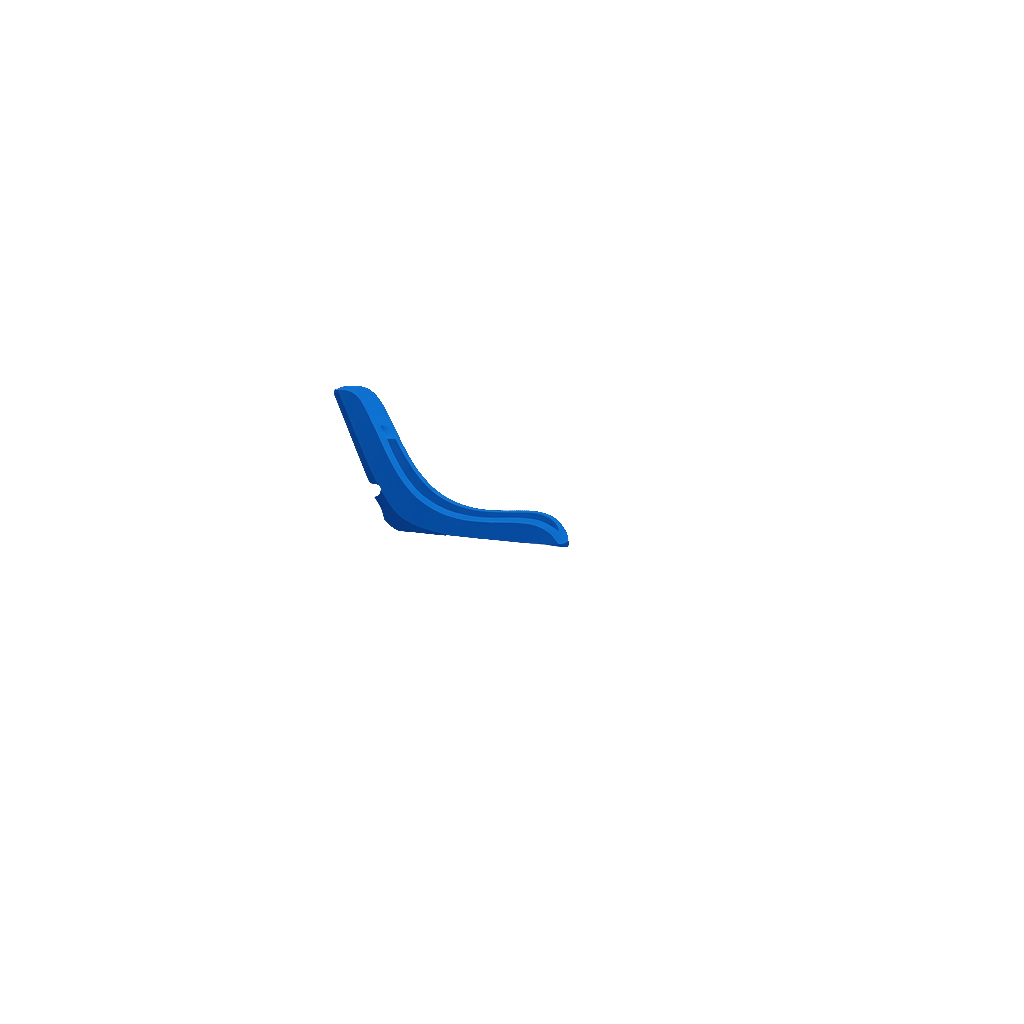
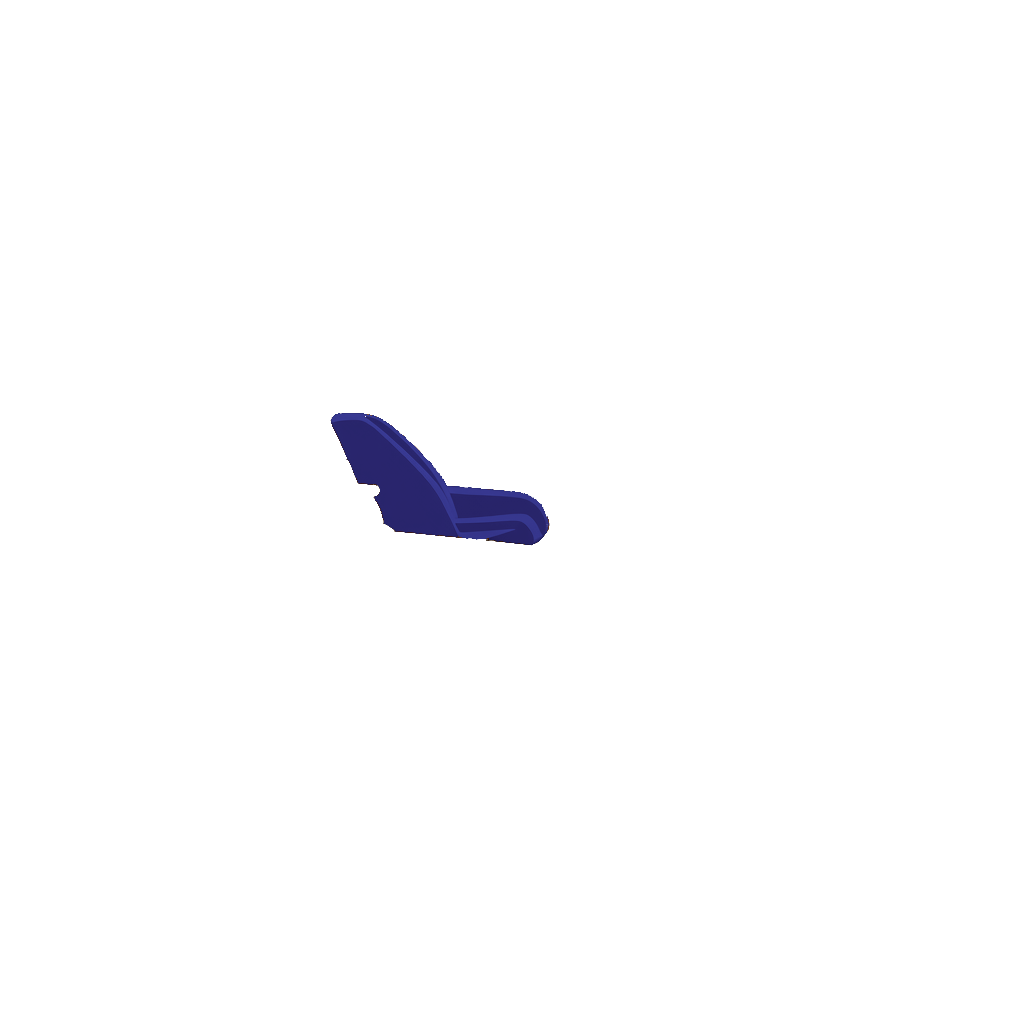
baazz

Changed region(s): [[0.3125, 0.375, 0.5625, 0.5312]]

diff --git a/src/pages/builder.vue b/src/pages/builder.vue
@@ -78,34 +78,35 @@
           <div class="kart-preview-wrapper">
             <div class="kart-display-area">
               <img
-                :src="baseImageUrl"
-                alt="Kart base"
+                :src="previewBaseImage.src"
+                :alt="previewBaseImage.alt"
                 class="kart-image"
               />
-              
-              <!-- Overlay container for parts -->
+
               <div class="kart-overlays-container">
                 <img
-                  v-if="selectedParts.wheel"
-                  :src="getOverlayImage('wheel')"
-                  alt="Wheels"
-                  class="kart-overlay"
-                />
-                
-                <img
-                  v-if="selectedParts.seat"
-                  :src="getOverlayImage('seat')"
-                  alt="Seat"
-                  class="kart-overlay"
-                />
-                
-                <img
-                  v-if="selectedParts.frame"
-                  :src="getOverlayImage('frame')"
-                  alt="Frame"
+                  v-for="layer in previewLayers"
+                  :key="layer.key"
+                  :src="layer.src"
+                  :alt="layer.alt"
                   class="kart-overlay"
                 />
               </div>
+            </div>
+
+            <div class="preview-selection-summary">
+              <v-chip size="small" variant="outlined">
+                Frame: {{ selectedFrameName }}
+              </v-chip>
+              <v-chip size="small" variant="outlined">
+                Wheels: {{ selectedWheelName }}
+              </v-chip>
+              <v-chip size="small" variant="outlined">
+                Seat: {{ selectedSeatName }}
+              </v-chip>
+              <v-chip size="small" variant="tonal">
+                Body: {{ selectedColor || 'White' }}
+              </v-chip>
             </div>
 
             <div class="mood-selector">
@@ -314,10 +315,12 @@
   position: relative;
   width: 100%;
   height: 450px;
-  background: transparent;
+  background:
+    radial-gradient(circle at top, rgba(255, 255, 255, 0.96), rgba(245, 245, 245, 0.92)),
+    linear-gradient(135deg, rgba(255, 196, 0, 0.12), rgba(0, 0, 0, 0.04));
   border-radius: 12px;
   overflow: hidden;
-  border: none;
+  border: 1px solid rgba(0, 0, 0, 0.06);
   transition: all 0.3s ease;
   margin-bottom: 1.5rem;
 }
@@ -361,6 +364,14 @@
   gap: 0.5rem;
   flex-wrap: wrap;
   margin-bottom: 1.5rem;
+}
+
+.preview-selection-summary {
+  display: flex;
+  gap: 0.5rem;
+  flex-wrap: wrap;
+  justify-content: center;
+  margin-bottom: 1rem;
 }
 </style>
 
@@ -407,7 +418,7 @@ const buildPresets = [
 ]
 
 const selectedColor = ref(null)
-const colorOptions = ['Yellow', 'Black', 'White']
+const colorOptions = ['Yellow', 'Black', 'Red', 'White']
 
 const selectedParts = reactive(
   Object.fromEntries(PART_TYPES.map(t => [t, null]))
@@ -416,34 +427,95 @@ const selectedParts = reactive(
 const initialSnapshot = ref('')
 const currentUserEmail = computed(() => store.currentUser?.email || null)
 
-const baseImageUrl = new URL('@/assets/editor/cross kart.png', import.meta.url).href
-
-function getOverlayImage(partType) {
-  // Dynamically get overlay based on selected part
-  const selectedPartId = selectedParts[partType]
-  if (!selectedPartId) return ''
-  
-  const overlayMap = {
-    // Wheel overlays
-    'p-003': new URL('@/assets/editor/yellow wheels.png', import.meta.url).href,
-    'p-004': new URL('@/assets/editor/yellow wheels.png', import.meta.url).href,
-    // Seat overlays
+const EDITOR_ASSETS = {
+  baseDefault: {
+    src: new URL('@/assets/editor/cross kart.png', import.meta.url).href,
+    alt: 'Kart preview',
+  },
+  baseAlt: {
+    src: new URL('@/assets/editor/42d02525-d6a6-4637-993d-68cd67d0cf19.png', import.meta.url).href,
+    alt: 'Alternative kart preview',
+  },
+  frameBases: {
+    'p-007': {
+      src: new URL('@/assets/editor/tony kart frame.png', import.meta.url).href,
+      alt: 'Tony Kart frame preview',
+    },
+    'p-008': {
+      src: new URL('@/assets/editor/42d02525-d6a6-4637-993d-68cd67d0cf19.png', import.meta.url).href,
+      alt: 'CRG frame preview',
+    },
+    'p-025': {
+      src: new URL('@/assets/editor/42d02525-d6a6-4637-993d-68cd67d0cf19.png', import.meta.url).href,
+      alt: 'Sodi frame preview',
+    },
+  },
+  body: {
+    Yellow: new URL('@/assets/editor/yellow body.png', import.meta.url).href,
+    Black: new URL('@/assets/editor/black body.png', import.meta.url).href,
+    Red: new URL('@/assets/editor/red body.png', import.meta.url).href,
+  },
+  wheels: {
+    'p-003': new URL('@/assets/editor/yellow wheel.png', import.meta.url).href,
+    'p-004': new URL('@/assets/editor/vega.png', import.meta.url).href,
+    'p-026': new URL('@/assets/editor/douglas.png', import.meta.url).href,
+    'p-027': new URL('@/assets/editor/lecont wheels.png', import.meta.url).href,
+    'p-028': new URL('@/assets/editor/maxxis wheels.png', import.meta.url).href,
+  },
+  seats: {
     'p-009': new URL('@/assets/editor/blue seat.png', import.meta.url).href,
-    'p-010': new URL('@/assets/editor/blue seat.png', import.meta.url).href,
-    'p-019': new URL('@/assets/editor/blue seat.png', import.meta.url).href,
-    'p-020': new URL('@/assets/editor/blue seat.png', import.meta.url).href,
-    'p-021': new URL('@/assets/editor/blue seat.png', import.meta.url).href,
-    // Frame overlays
-    'p-007': new URL('@/assets/editor/frame.png', import.meta.url).href,
-    'p-008': new URL('@/assets/editor/frame.png', import.meta.url).href,
-  }
-  return overlayMap[selectedPartId] || ''
+    'p-010': new URL('@/assets/editor/omp seat.png', import.meta.url).href,
+    'p-019': new URL('@/assets/editor/alvey seat.png', import.meta.url).href,
+    'p-020': new URL('@/assets/editor/jecko seat.png', import.meta.url).href,
+    'p-021': new URL('@/assets/editor/nek seat.png', import.meta.url).href,
+  },
 }
+
+const partsById = computed(() =>
+  Object.fromEntries(getAllParts().map(part => [part.ID, part]))
+)
+
+const previewBaseImage = computed(() => {
+  if (selectedParts.frame && EDITOR_ASSETS.frameBases[selectedParts.frame]) {
+    return EDITOR_ASSETS.frameBases[selectedParts.frame]
+  }
+
+  if (selectedColor.value === 'Black') {
+    return EDITOR_ASSETS.baseAlt
+  }
+
+  return EDITOR_ASSETS.baseDefault
+})
+
+const previewLayers = computed(() => {
+  const layers = []
+  const bodySrc = selectedColor.value ? EDITOR_ASSETS.body[selectedColor.value] : null
+  const wheelSrc = selectedParts.wheel ? EDITOR_ASSETS.wheels[selectedParts.wheel] : null
+  const seatSrc = selectedParts.seat ? EDITOR_ASSETS.seats[selectedParts.seat] : null
+
+  if (bodySrc) {
+    layers.push({ key: `body-${selectedColor.value}`, src: bodySrc, alt: `${selectedColor.value} body kit` })
+  }
+
+  if (wheelSrc) {
+    layers.push({ key: `wheel-${selectedParts.wheel}`, src: wheelSrc, alt: 'Selected wheels' })
+  }
+
+  if (seatSrc) {
+    layers.push({ key: `seat-${selectedParts.seat}`, src: seatSrc, alt: 'Selected seat' })
+  }
+
+  return layers
+})
+
+const selectedFrameName = computed(() => partsById.value[selectedParts.frame]?.name || 'Default chassis')
+const selectedWheelName = computed(() => partsById.value[selectedParts.wheel]?.name || 'Stock wheels')
+const selectedSeatName = computed(() => partsById.value[selectedParts.seat]?.name || 'Stock seat')
 
 const selectedPartsList = computed(() => {
   return Object.values(selectedParts)
     .filter(partId => partId !== null)
-    .map(partId => getAllParts().find(p => p.ID === partId))
+    .map(partId => partsById.value[partId])
     .filter(part => part !== undefined)
 })
 

diff --git a/src/pages/KarthubChat.vue b/src/pages/KarthubChat.vue
@@ -719,6 +719,14 @@ watch(messages, scrollToBottom, { deep: true })
   color: var(--kh-text);
 }
 
+[data-theme="light"] .kh-chat,
+.light-mode .kh-chat {
+  background: #fcfdff !important;
+  color: #1a1a1a !important;
+  border-color: rgba(230, 57, 70, 0.14) !important;
+  box-shadow: 0 24px 80px rgba(17, 24, 39, 0.16), 0 0 0 1px rgba(230, 57, 70, 0.06) !important;
+}
+
 .kh-chat::before {
   content: '';
   position: absolute;
@@ -760,6 +768,12 @@ watch(messages, scrollToBottom, { deep: true })
   flex-shrink: 0;
 }
 
+[data-theme="light"] .kh-chat__header,
+.light-mode .kh-chat__header {
+  background: #ffffff !important;
+  border-bottom-color: rgba(230, 57, 70, 0.14) !important;
+}
+
 .kh-chat__logo {
   width: 30px;
   height: 30px;
@@ -787,11 +801,21 @@ watch(messages, scrollToBottom, { deep: true })
   line-height: 1;
 }
 
+[data-theme="light"] .kh-chat__title,
+.light-mode .kh-chat__title {
+  color: #151515 !important;
+}
+
 .kh-chat__subtitle {
   font-size: 10px;
   color: var(--kh-muted);
   font-family: var(--kh-mono);
   margin-top: 2px;
+}
+
+[data-theme="light"] .kh-chat__subtitle,
+.light-mode .kh-chat__subtitle {
+  color: #7a7a7a !important;
 }
 
 .kh-chat__controls {
@@ -812,6 +836,16 @@ watch(messages, scrollToBottom, { deep: true })
 
 .kh-chat__icon-btn:hover {
   color: var(--kh-text);
+}
+
+[data-theme="light"] .kh-chat__icon-btn,
+.light-mode .kh-chat__icon-btn {
+  color: #8a8a8a !important;
+}
+
+[data-theme="light"] .kh-chat__icon-btn:hover,
+.light-mode .kh-chat__icon-btn:hover {
+  color: #1a1a1a !important;
 }
 
 .kh-chat__icon-btn svg {
@@ -858,6 +892,11 @@ watch(messages, scrollToBottom, { deep: true })
   scroll-behavior: smooth;
 }
 
+[data-theme="light"] .kh-chat__messages,
+.light-mode .kh-chat__messages {
+  background: linear-gradient(180deg, #fcfdff 0%, #f7f9fc 100%) !important;
+}
+
 .kh-chat__messages::-webkit-scrollbar {
   width: 3px;
 }
@@ -897,6 +936,11 @@ watch(messages, scrollToBottom, { deep: true })
   line-height: 1.6;
 }
 
+[data-theme="light"] .kh-chat__empty-text,
+.light-mode .kh-chat__empty-text {
+  color: #6f6f6f !important;
+}
+
 .kh-chat__suggestions {
   display: flex;
   flex-direction: column;
@@ -922,6 +966,19 @@ watch(messages, scrollToBottom, { deep: true })
 .kh-chat__suggestion:hover {
   border-color: rgba(232,0,45,0.35);
   background: rgba(232,0,45,0.06);
+}
+
+[data-theme="light"] .kh-chat__suggestion,
+.light-mode .kh-chat__suggestion {
+  background: #ffffff !important;
+  color: #1a1a1a !important;
+  border-color: rgba(230, 57, 70, 0.12) !important;
+}
+
+[data-theme="light"] .kh-chat__suggestion:hover,
+.light-mode .kh-chat__suggestion:hover {
+  border-color: rgba(230, 57, 70, 0.28) !important;
+  background: rgba(230, 57, 70, 0.08) !important;
 }
 
 .kh-msg {
